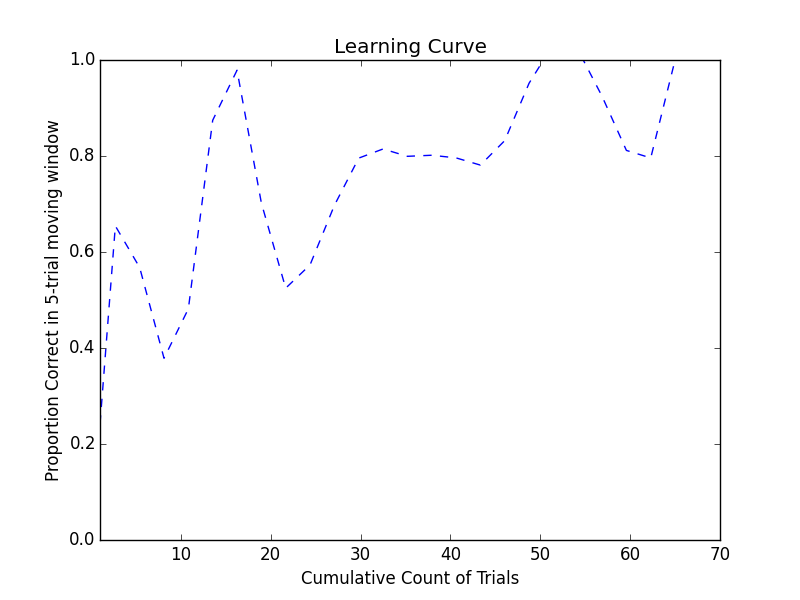
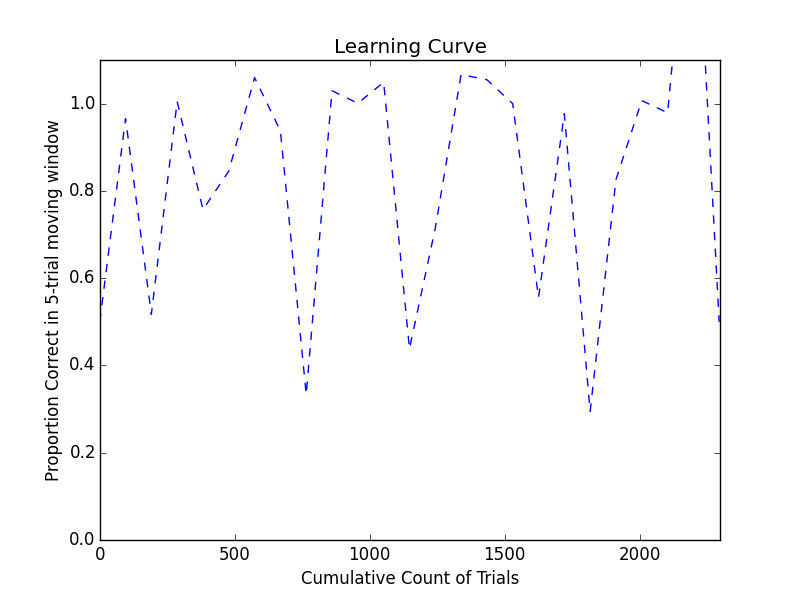
Plotting strangely - vals above 1

diff --git a/qLearning.py b/qLearning.py
@@ -1,6 +1,7 @@
 import MDP
 import sys
 import agent
+import plotLearning as learn
 
 """
 Main Module for Modeling W-Maze MDP with Q Learning
@@ -67,6 +68,7 @@ def runEpisode(agent, environment,episode,f):
         actions = agent.legalActions(state)
         if len(actions) == 0:
             print("EPISODE " + str(episode) + " COMPLETE: RETURN WAS " + str(returns) + "\n")
+            f.write('1')
             rat.accumTrainRewards=returns
             return returns
 
@@ -79,9 +81,9 @@ def runEpisode(agent, environment,episode,f):
         reward = environment.reward(nextState)
 
         if reward == 1:
-            f.write('1')
+            f.write('1,')
         else:
-            f.write('0')
+            f.write('0,')
 
         # UPDATE LEARNER
         if 'observeTransition' in dir(agent):
@@ -102,6 +104,7 @@ startState= MDP.State('f2',1,0,0,None,0)
 iterations = parameters['i']
 
 with open('decisions.txt','w') as fi:
+    fi.write('0,')
 
     #testing(rat,1,startState)
 
@@ -118,3 +121,5 @@ with open('decisions.txt','w') as fi:
             print "AVERAGE RETURNS FROM START STATE: "+str((returns+0.0) / iterations)
             print
             print
+
+learn.plot()

diff --git a/plotLearning.py b/plotLearning.py
@@ -37,14 +37,14 @@ def plot_results(proportions,trialNum,movAvg):
     new_y = interp1d(x1, y1, kind='cubic')(new_x)
 
     plt.plot(new_x,new_y,'--')
-    plt.axis([1,trialNum,0,1])
+    plt.axis([1,trialNum,0,1.1])
     plt.title('Learning Curve')
     plt.xlabel("Cumulative Count of Trials")
     plt.ylabel("Proportion Correct in " + str(movAvg) + "-trial moving window")
     plt.savefig(figureName)
     plt.close()
 
-
-props,trials = prep_data(5)
-plot_results(props,trials,5)
+def plot():
+    props,trials = prep_data(5)
+    plot_results(props,trials,5)
 
